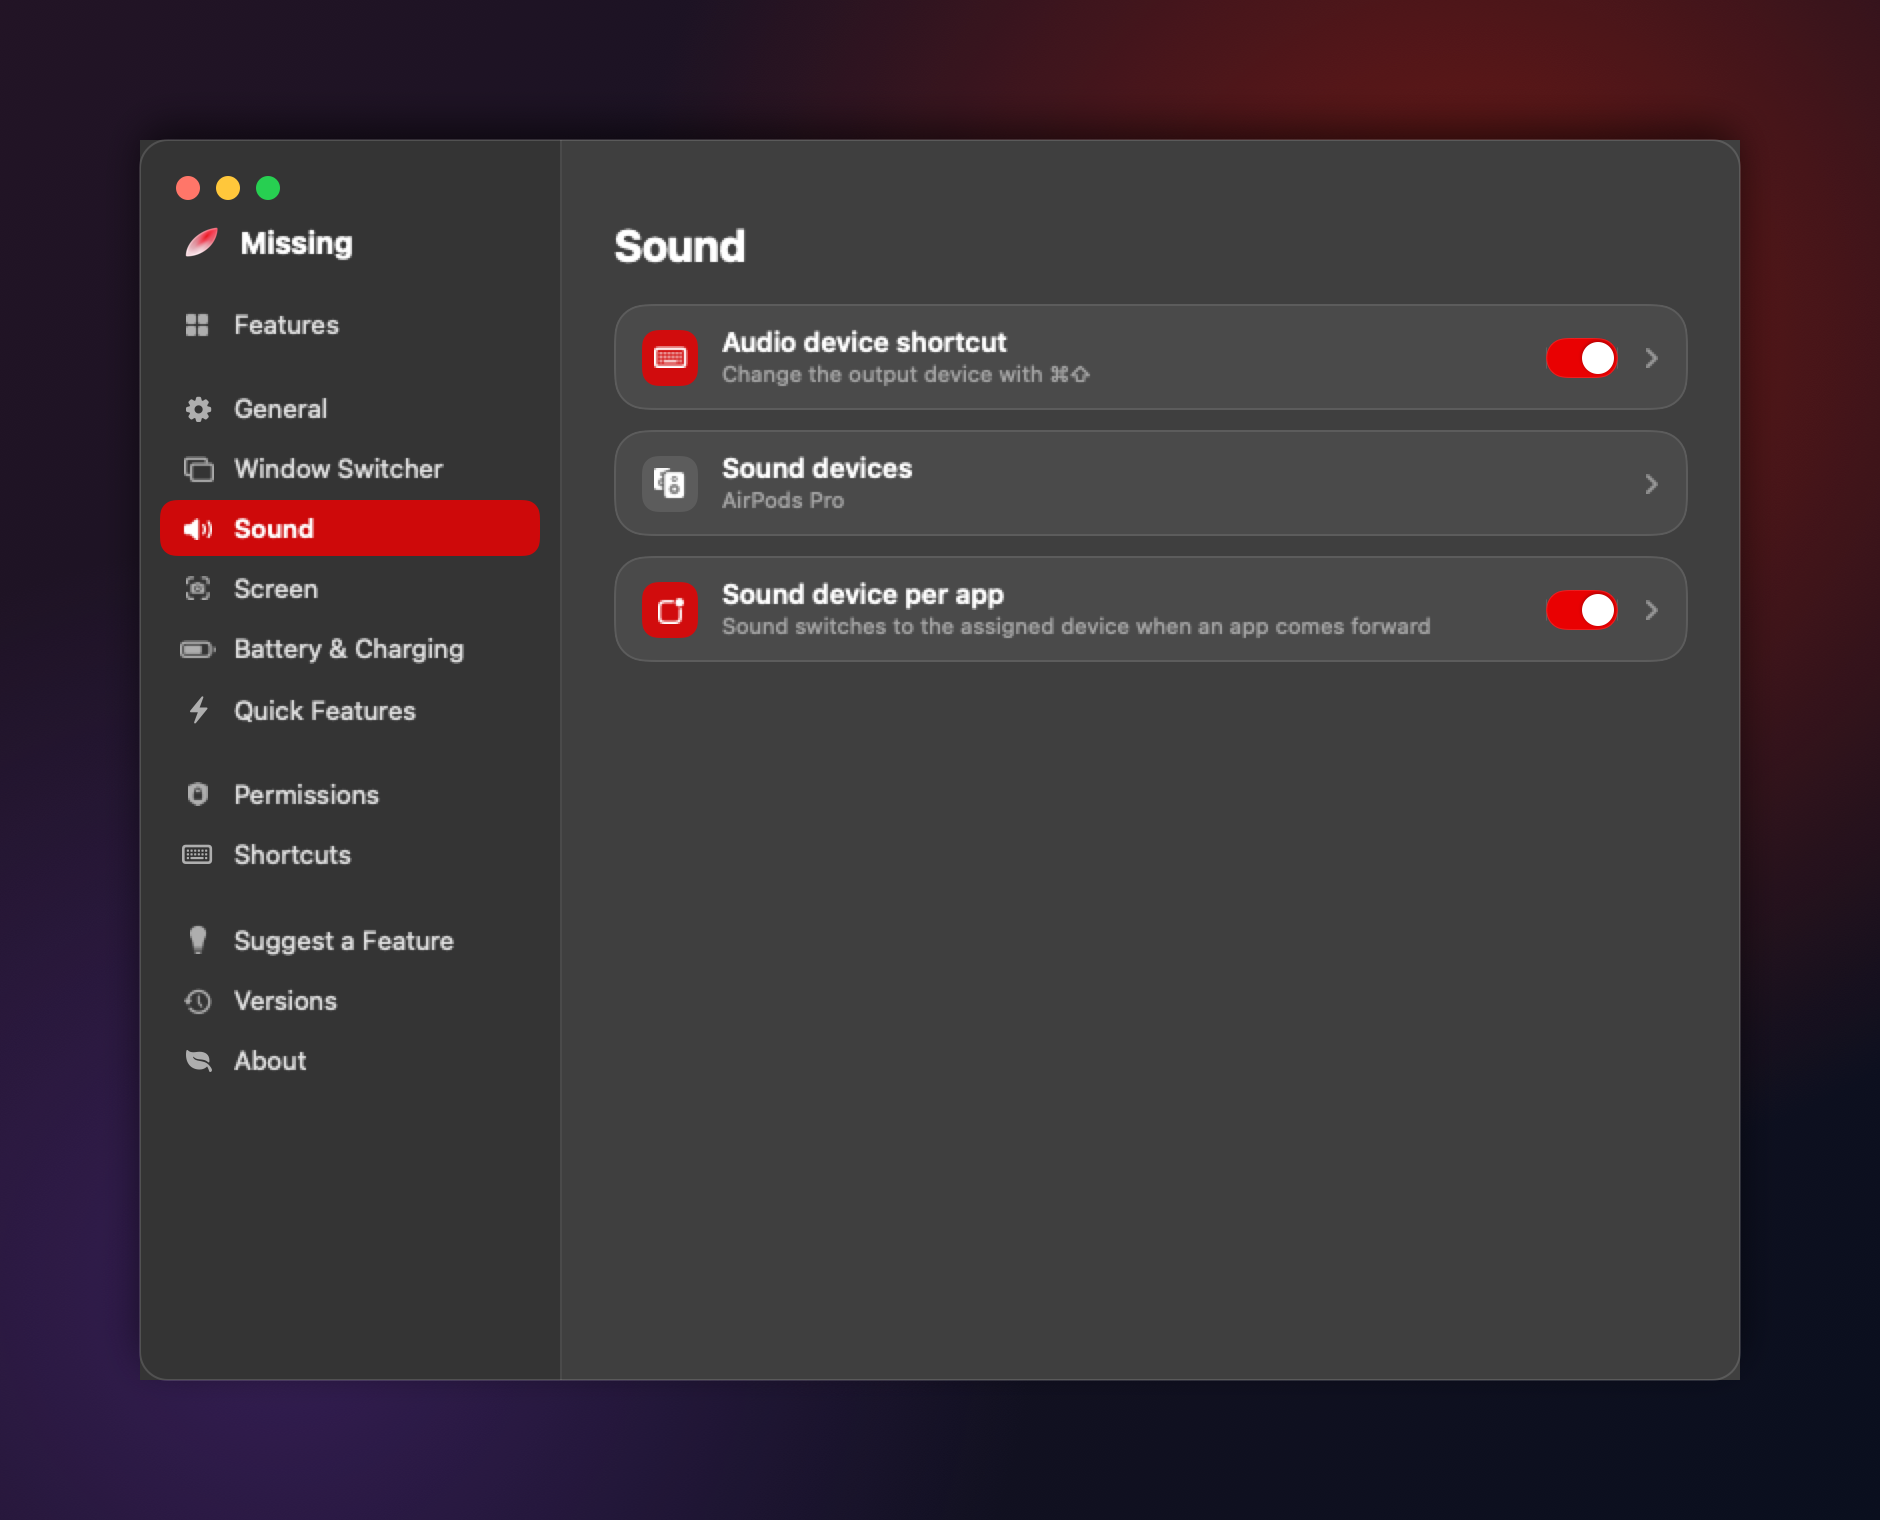
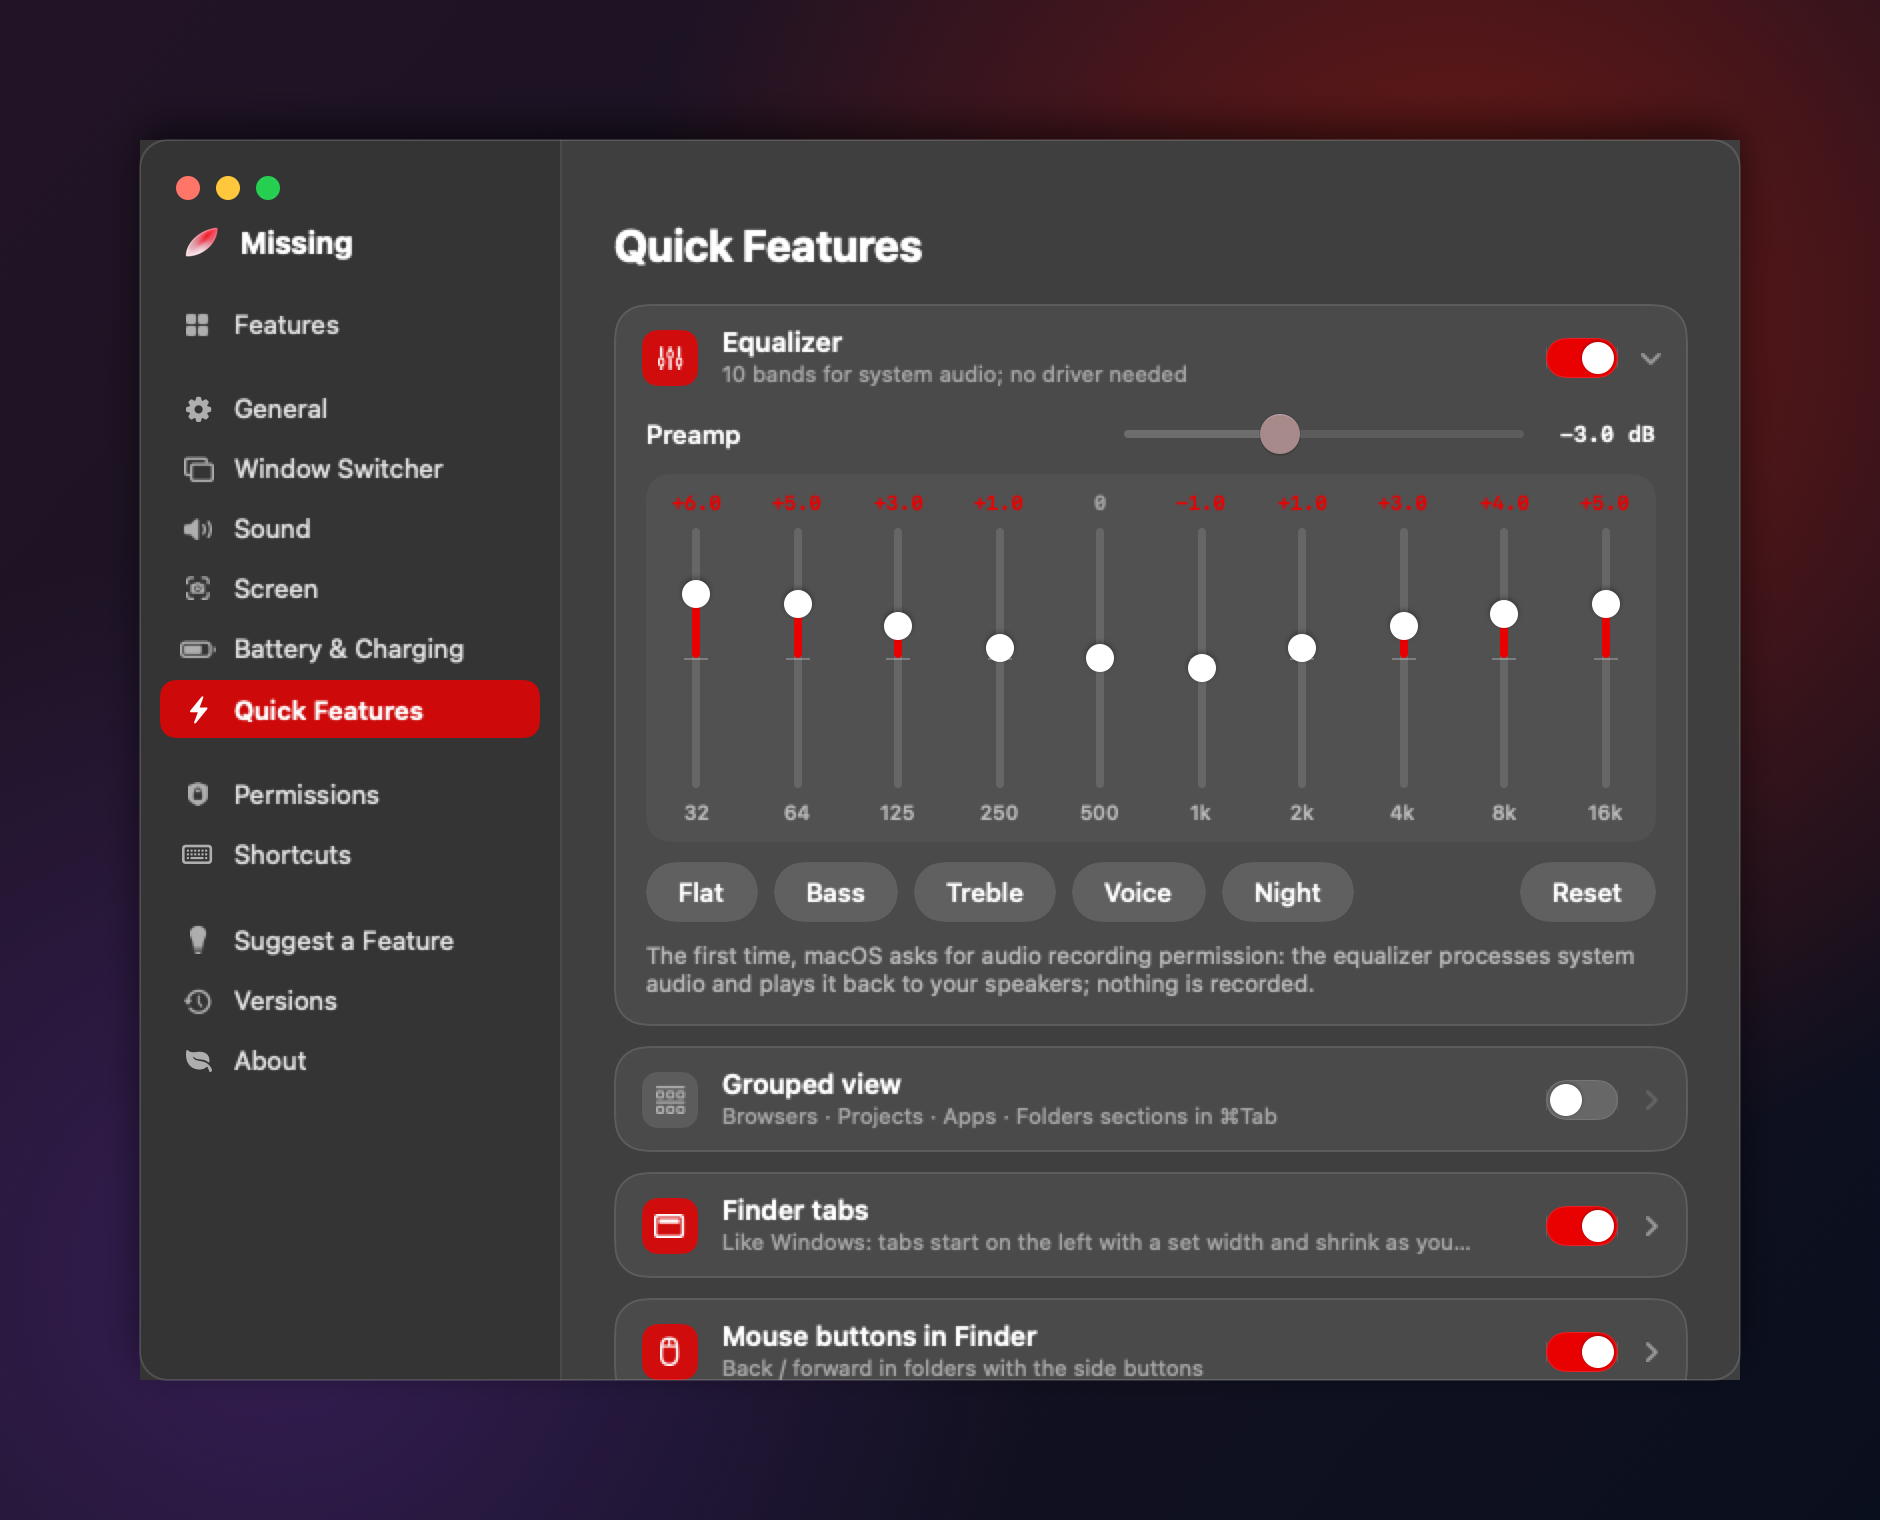
README: equalizer image refreshed from Quick Features, driver instead of eqMac in card caption

diff --git a/Sources/Localization.swift b/Sources/Localization.swift
@@ -580,7 +580,7 @@ private let englishStrings: [String: String] = [
     "Ayarla…": "Set Up…",
     "Güç: %@": "Power: %@",
     "Ekolayzır": "Equalizer",
-    "Sistemin sesi için 10 bant; eqMac gerekmez": "10 bands for system audio; no eqMac needed",
+    "Sistemin sesi için 10 bant; sürücü gerekmez": "10 bands for system audio; no driver needed",
     "Ön kazanç": "Preamp",
     "Bütün sesi yükseltir ya da kısar. Bantları çok artırdıysan biraz düşür, ses bozulmasın.": "Raises or lowers all audio. If you boosted bands a lot, lower it a little to avoid distortion.",
     "Sıfırla": "Reset",

diff --git a/Sources/Settings.swift b/Sources/Settings.swift
@@ -503,7 +503,7 @@ struct SettingsView: View {
                  EQSettings.enabled = v
                  model.onEQChanged()
              }),
-             subtitle: L("Sistemin sesi için 10 bant; eqMac gerekmez")) {
+             subtitle: L("Sistemin sesi için 10 bant; sürücü gerekmez")) {
             if let err = eq.lastError, EQSettings.enabled {
                 Label(err, systemImage: "exclamationmark.triangle.fill")
                     .font(.system(size: 11.5)).foregroundStyle(.orange)
